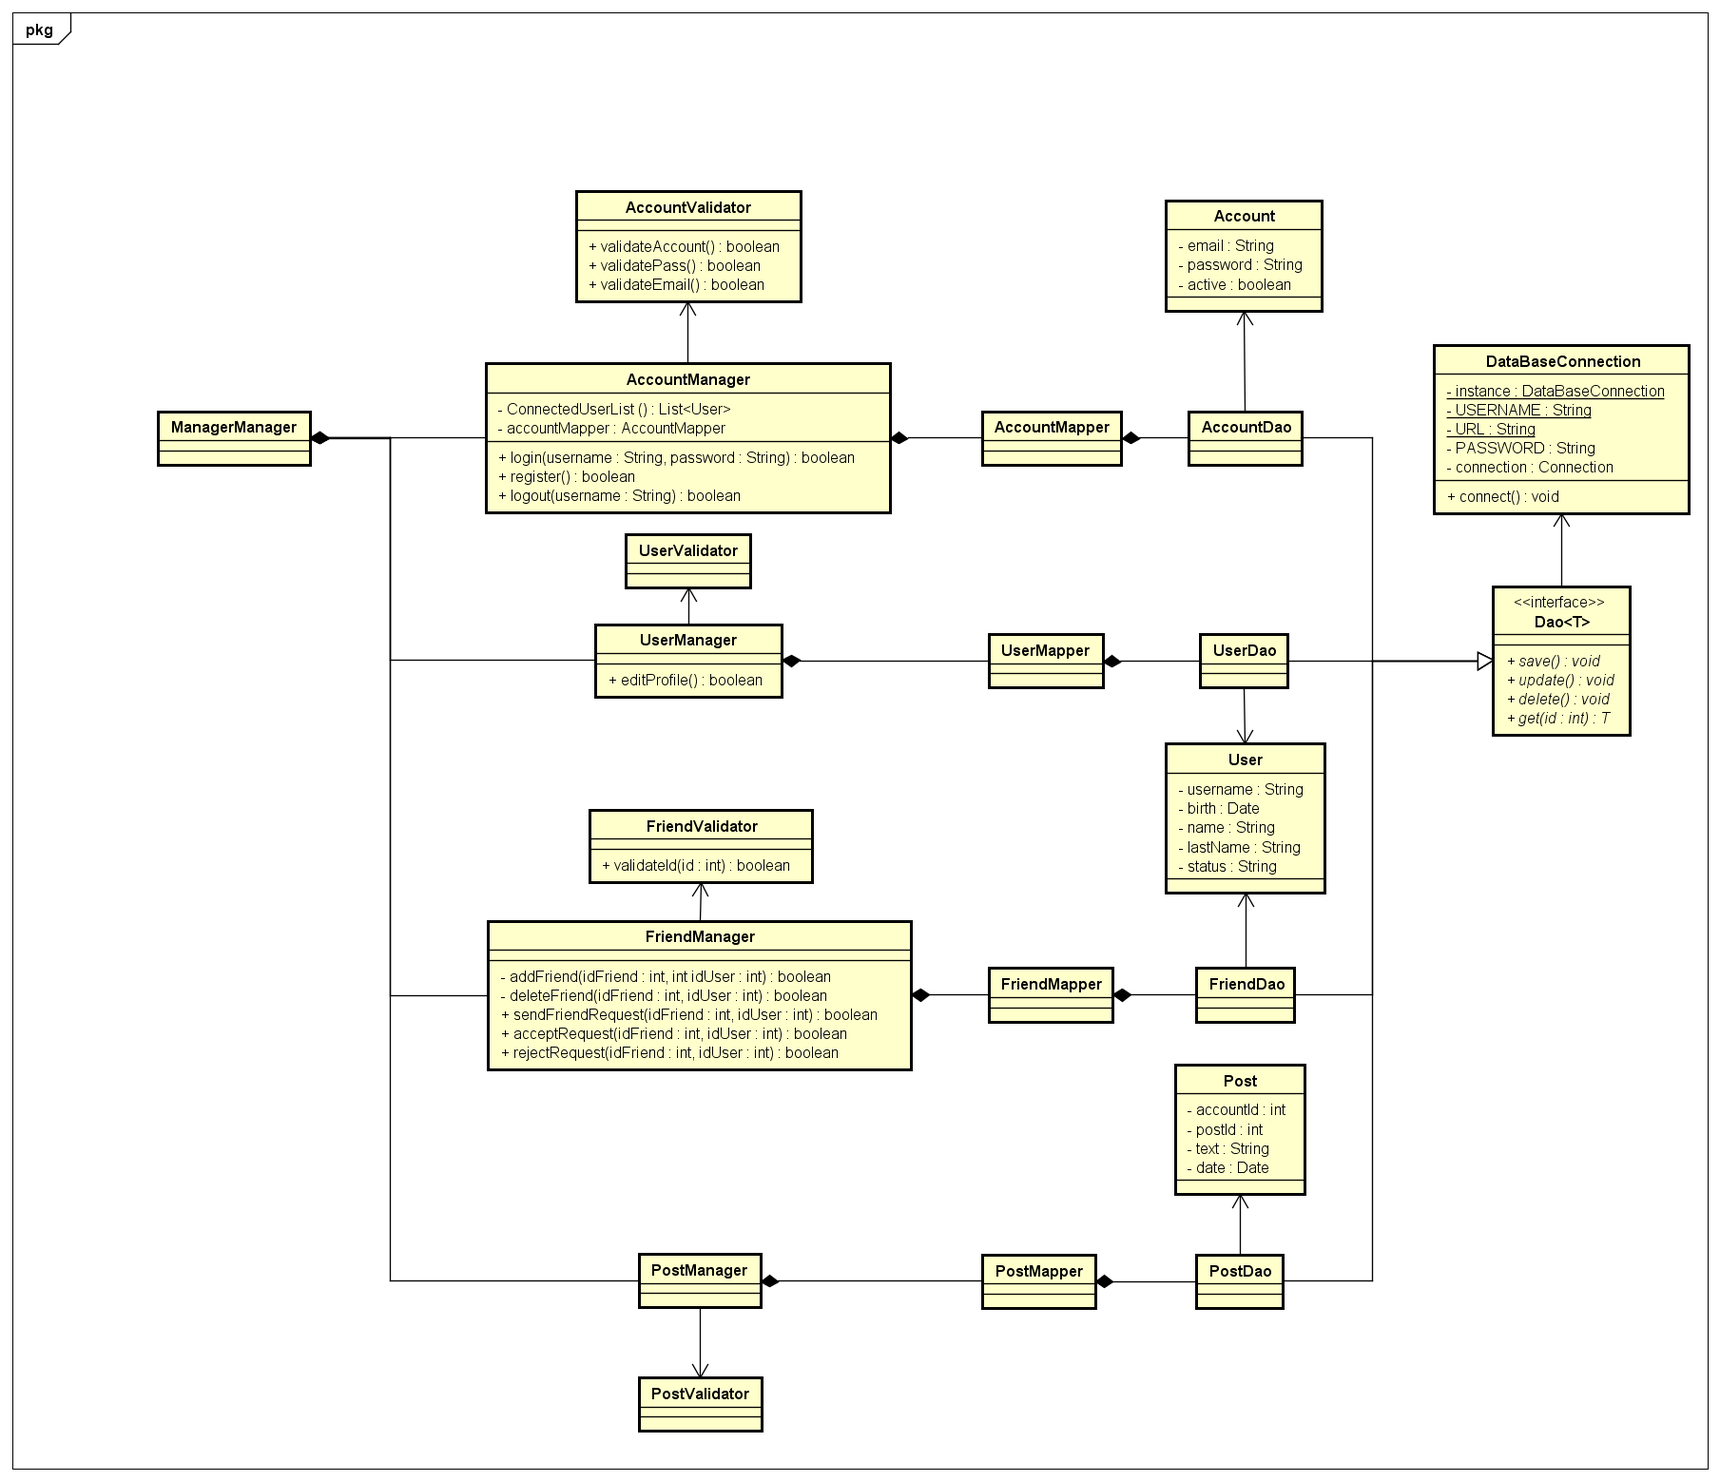
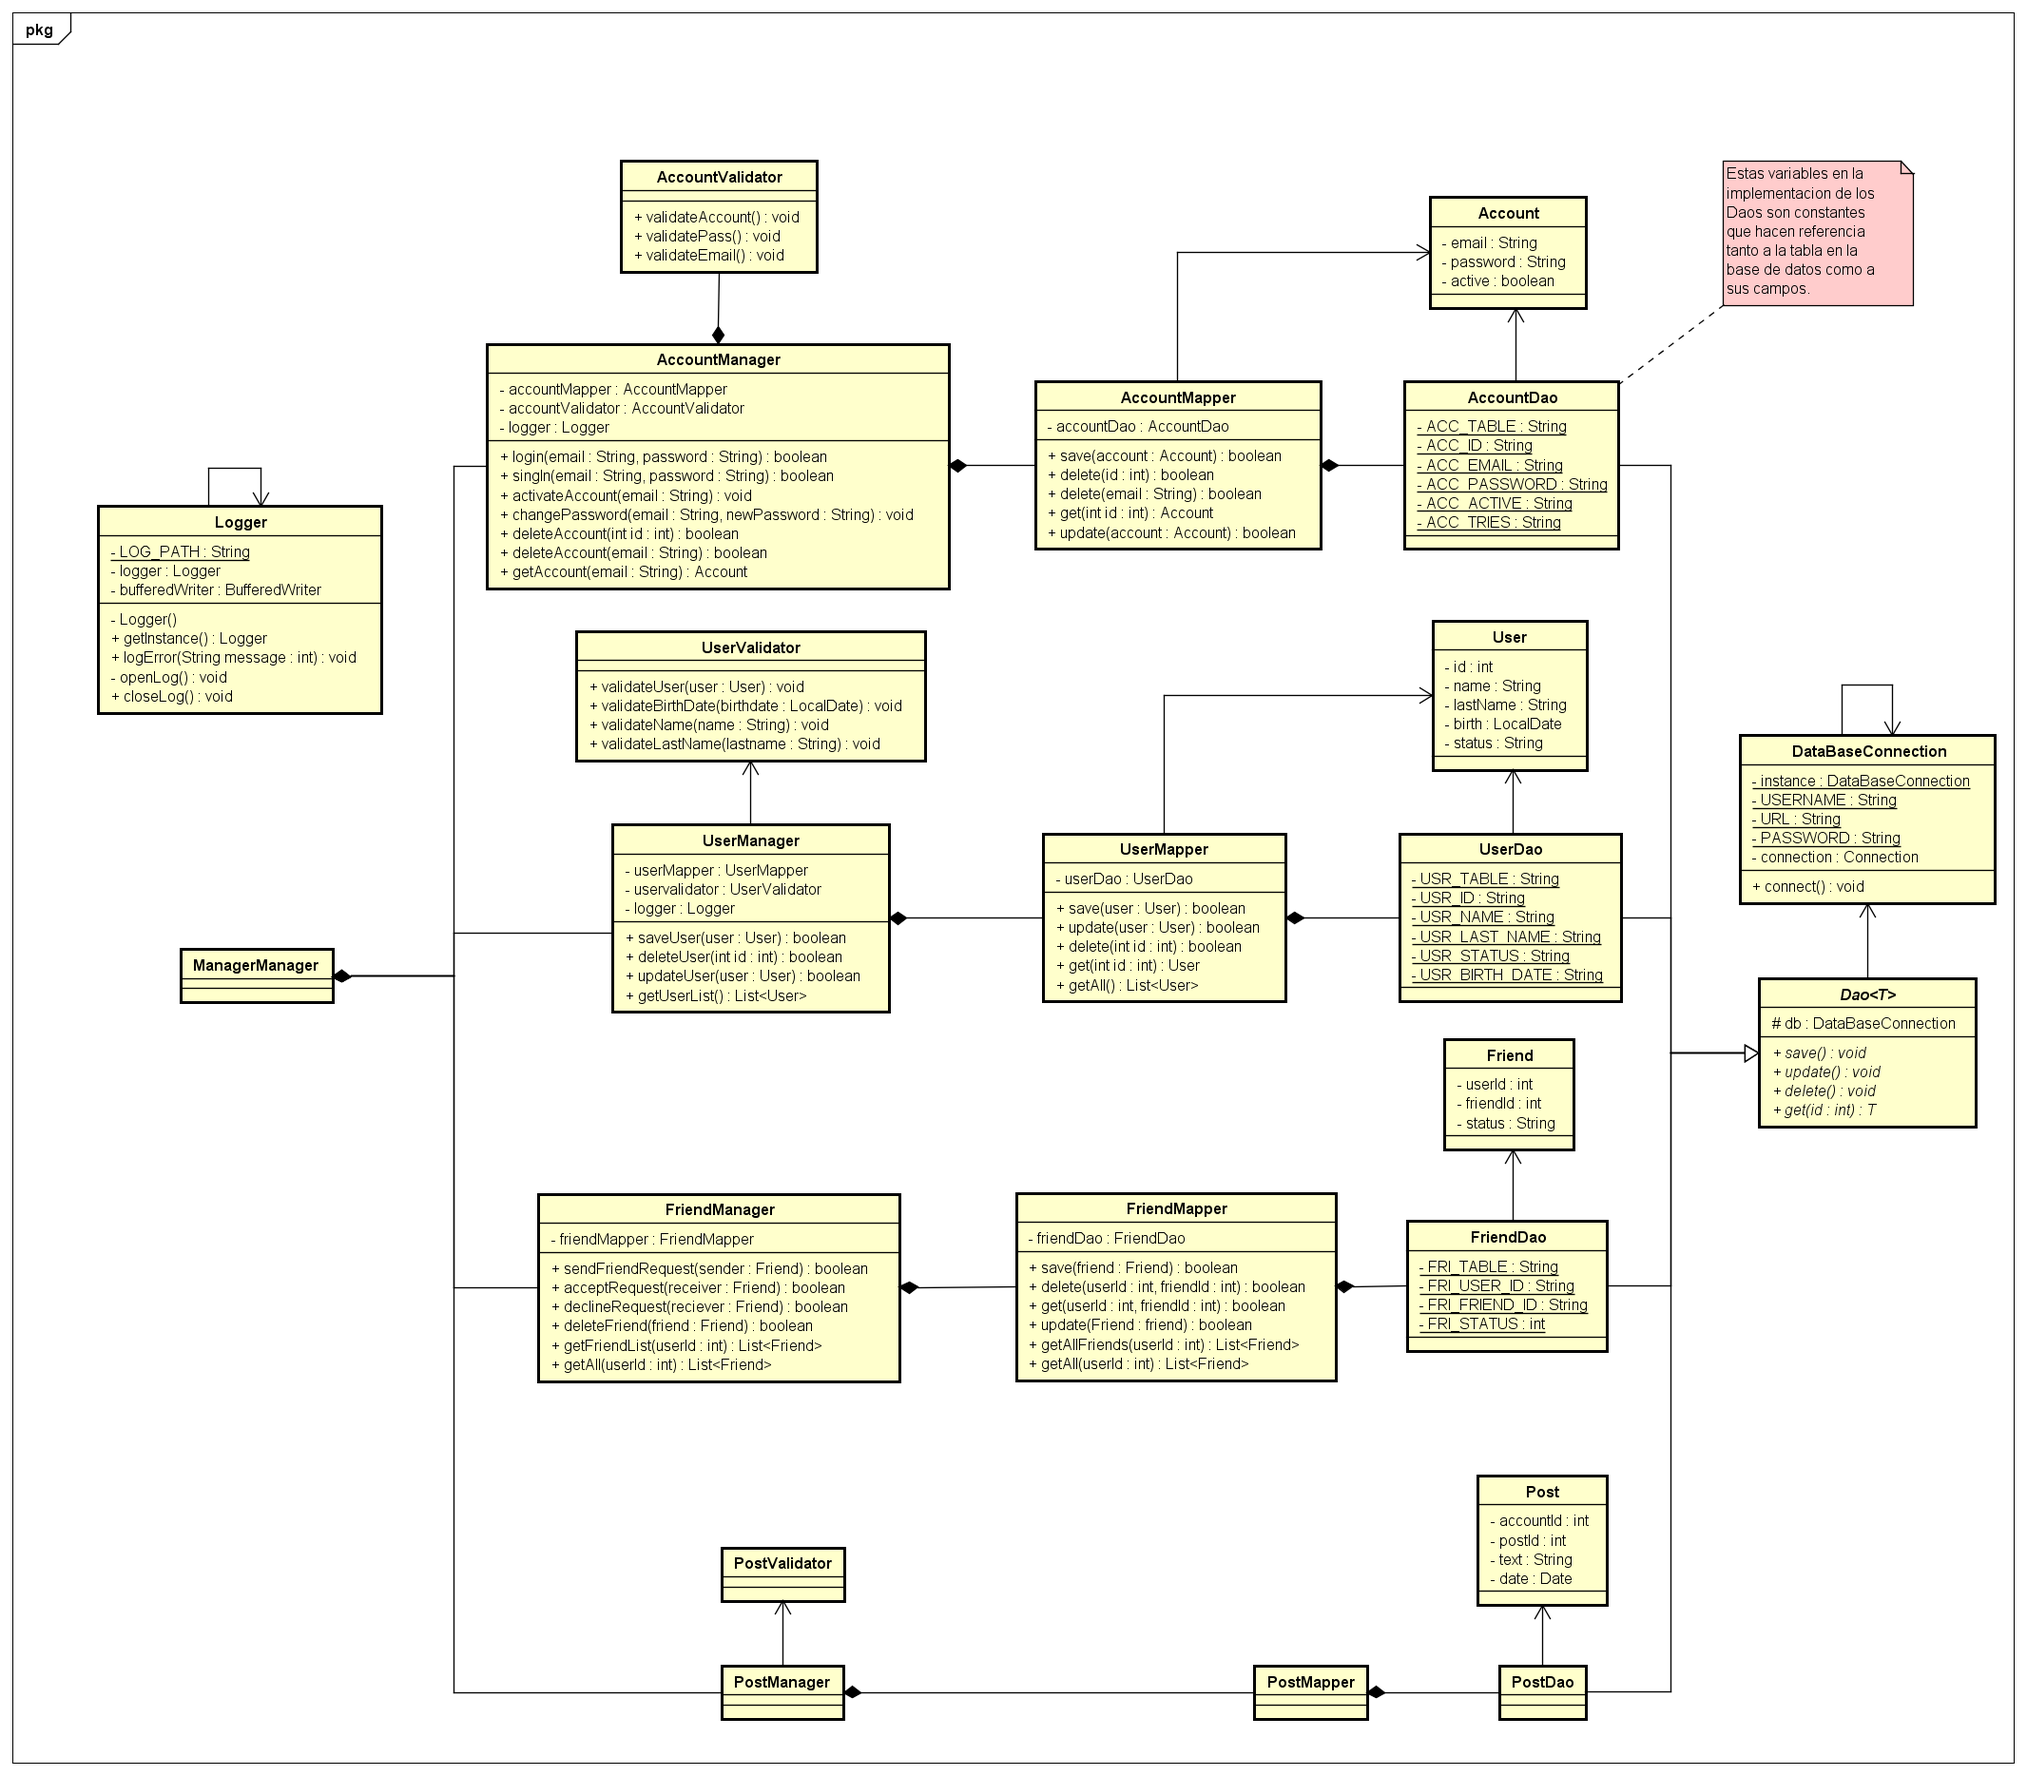
Actualizamos (POR FIN) el diagrama de clase. :D

diff --git a/src/edu/labIV/logger/Logger.java b/src/edu/labIV/logger/Logger.java
@@ -4,12 +4,13 @@ import java.io.*;
 
 public class Logger {
 
+    private static final String LOG_PATH = "log/ErrorLog.txt";
+
     private static Logger logger;
     private  BufferedWriter bufferedWriter;
-    private static final String PATH = "log/ErrorLog.txt";
 
     private Logger() {
-        openFile();
+        openLog();
     }
 
     public static Logger getInstance(){
@@ -19,8 +20,8 @@ public class Logger {
         return logger;
     }
 
-    private void openFile(){
-        File log = new File(PATH);
+    private void openLog(){
+        File log = new File(LOG_PATH);
         try {
             bufferedWriter = new BufferedWriter(new FileWriter(log));
         } catch (IOException e) {
@@ -39,7 +40,7 @@ public class Logger {
     }
 
     //no esta en uso
-    public void closeFile(){
+    public void closeLog(){
         try {
             bufferedWriter.close();
         } catch (IOException e) {

diff --git a/src/edu/labIV/entity/Account.java b/src/edu/labIV/entity/Account.java
@@ -21,15 +21,6 @@ public class Account {
 
     }
 
-    public boolean compare(Account account){
-        //TODO eliminar por trigger en mapper/dao
-        boolean isSameAccount = account.getPassword().equals(this.password);
-        isSameAccount &= account.getEmail().equals(this.email);
-        isSameAccount &= account.isActive() == this.active;
-        isSameAccount &= account.getAvailableTries() == this.availableTries;
-        return isSameAccount;
-    }
-
     public void setActive(boolean active) {
         this.active = active;
     }

diff --git a/src/edu/labIV/mapper/FriendMapper.java b/src/edu/labIV/mapper/FriendMapper.java
@@ -38,16 +38,6 @@ public class FriendMapper {
         return friendList;
     }
 
-   /* public List<Friend> getAllPending(int userId){
-        List<Friend> pendingList = new ArrayList<>();
-        for(Friend friend : friendDao.getAll(userId)){
-            if(friend.getStatus().equals(FriendStatus.PENDING)){
-                pendingList.add(friend);
-            }
-        }
-        return pendingList;
-    }*/
-
     public List<Friend> getAll(int userId){
         return friendDao.getAll(userId);
     }
